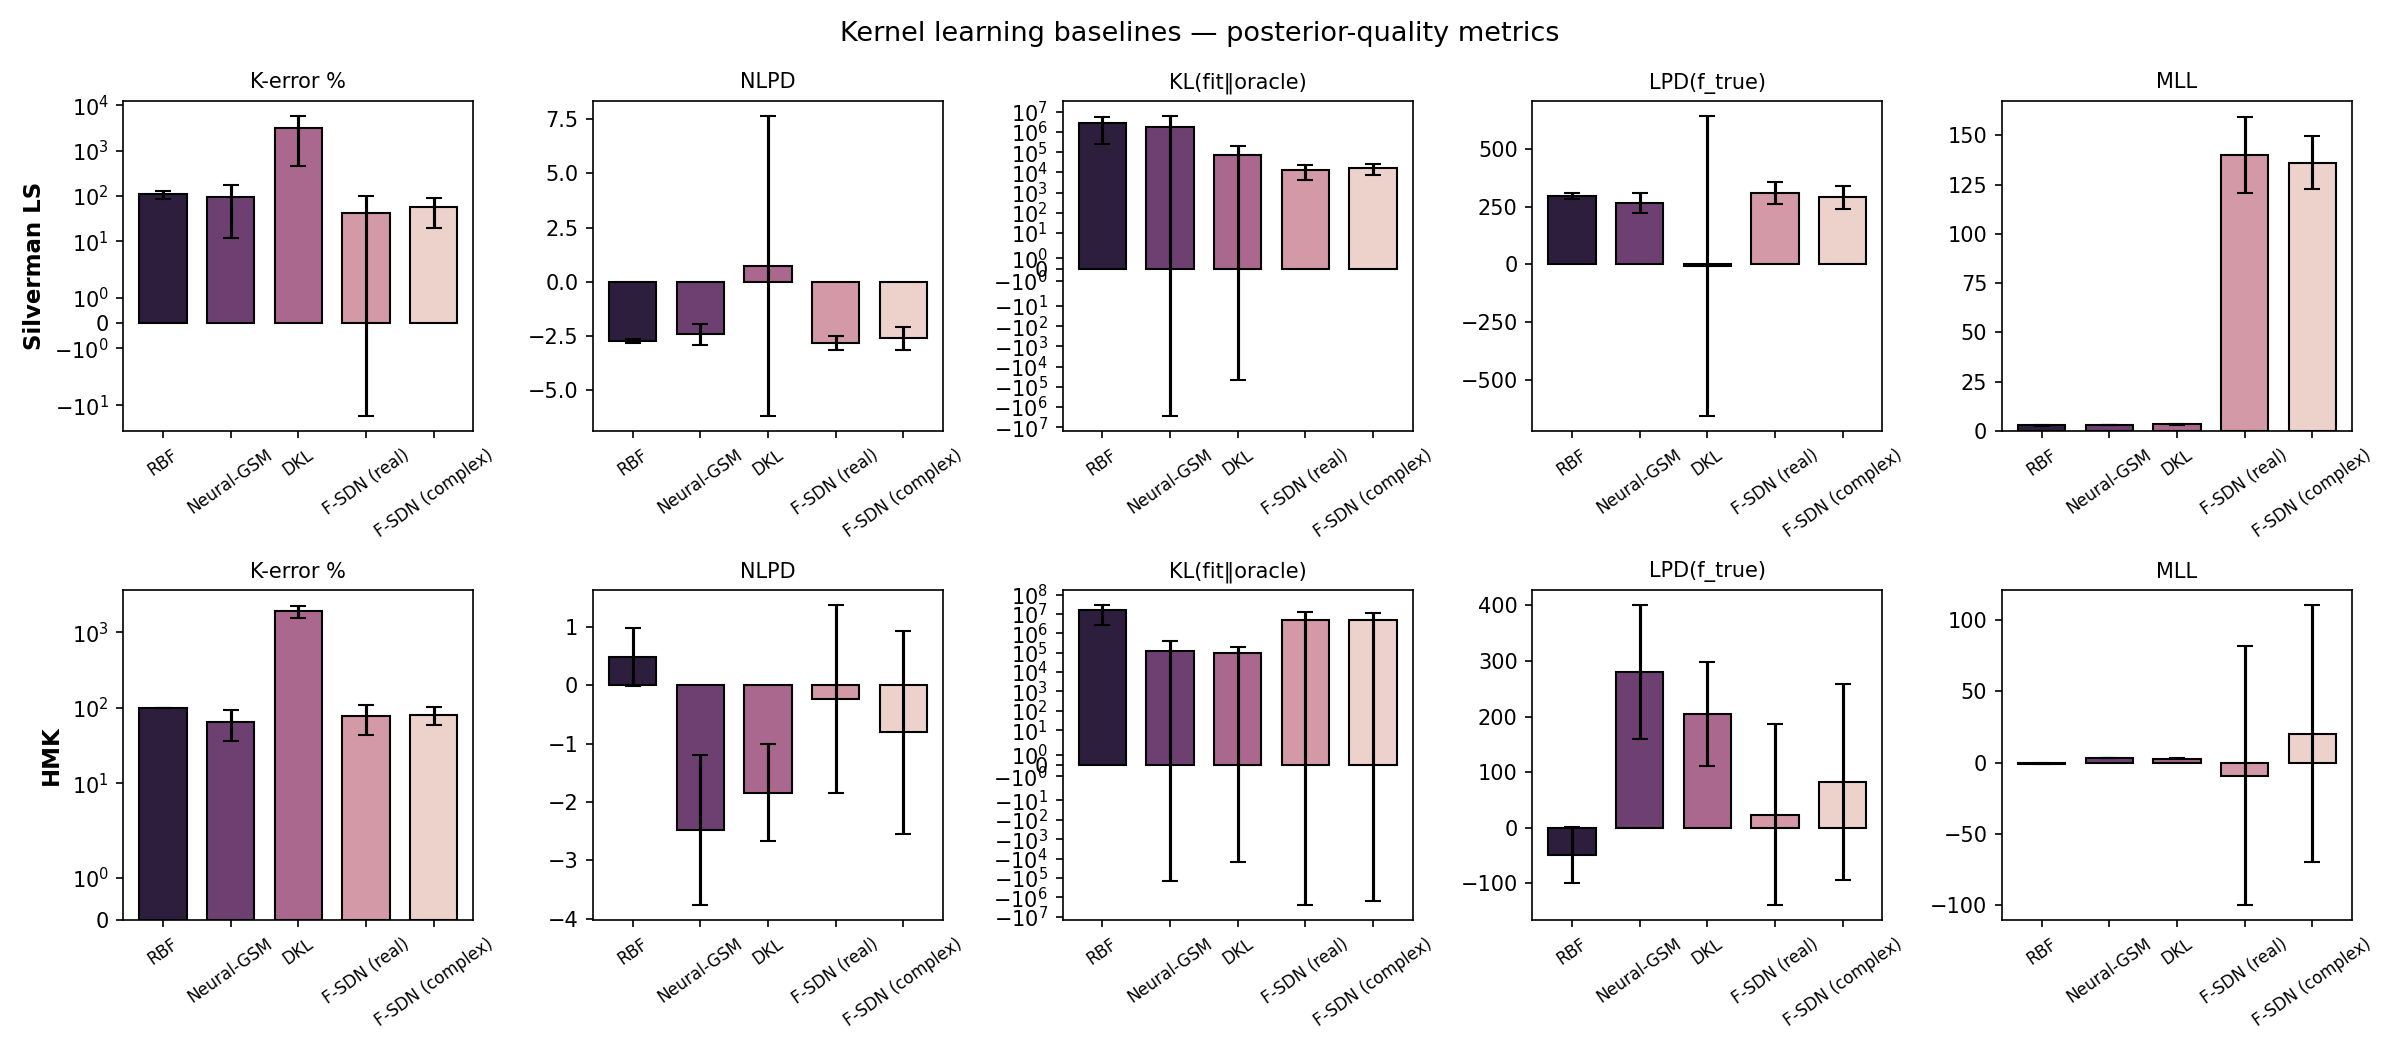
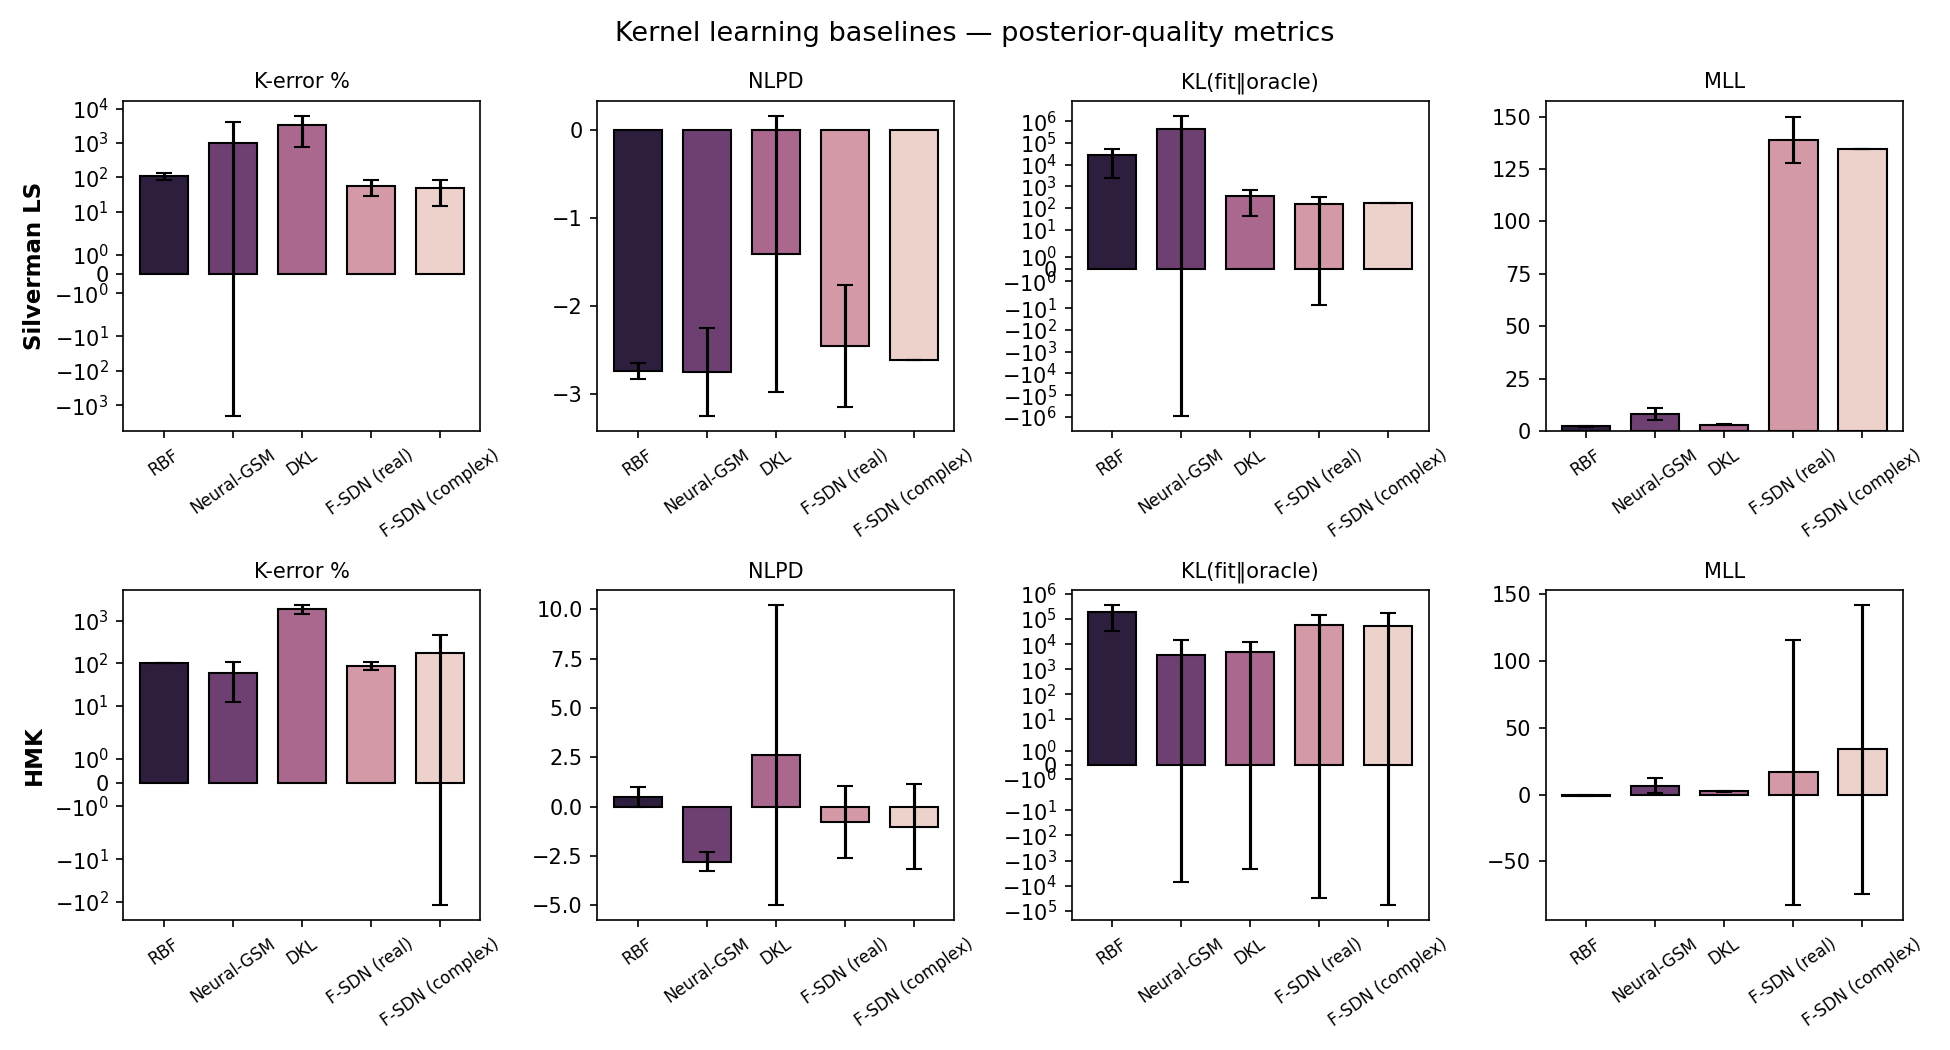
chore(experiments): refresh metrics artefacts after oracle_posterior fix
KL values drop 1-3 orders of magnitude across all methods now that the
oracle and fitted posteriors are both reported with observation noise.
F-SDN (complex) Silverman success rate dropped to 1/5 — Cholesky
failures on the predictive distribution path, not the fit.

diff --git a/experiments/kernel_learning/results_metrics/tables.md b/experiments/kernel_learning/results_metrics/tables.md
@@ -1,19 +1,19 @@
 ### Silverman LS
 
-| Method | n | K-error % | NLPD | KL(fit‖oracle) | LPD(f_true) | MLL | σ²_noise |
-|---|---|---|---|---|---|---|---|
-| RBF | 5/5 | 107.8 ±23.6 | -2.73 ±0.08 | 2908073.15 ±2645656.71 | 295.9 ±13.9 | 2.9 ±0.2 | 1.91e-04 ±6e-05 |
-| Neural-GSM | 5/5 | 95.0 ±83.4 | -2.43 ±0.48 | 1717038.53 ±4518182.41 | 266.8 ±41.8 | 3.0 ±0.2 | 1.65e-04 ±4e-05 |
-| DKL | 5/5 | 3138.0 ±2669.4 | 0.73 ±6.92 | 76139.82 ±123062.35 | -6.6 ±649.9 | 3.4 ±0.2 | 1.09e-04 ±9e-06 |
-| F-SDN (real) | 3/5 | 41.7 ±59.0 | -2.81 ±0.32 | 13929.64 ±9498.54 | 309.7 ±46.5 | 140.1 ±19.3 | 1.63e-04 ±1e-04 |
-| F-SDN (complex) | 4/5 | 55.6 ±36.4 | -2.60 ±0.53 | 17248.18 ±9822.74 | 290.7 ±48.7 | 136.2 ±13.5 | 1.82e-04 ±8e-05 |
+| Method | n | K-error % | NLPD | KL(fit‖oracle) | MLL | σ²_noise |
+|---|---|---|---|---|---|---|
+| RBF | 5/5 | 107.8 ±23.6 | -2.74 ±0.09 | 28968.36 ±26446.24 | 2.1 ±0.2 | 1.91e-04 ±6e-05 |
+| Neural-GSM | 4/5 | 1006.1 ±3051.5 | -2.75 ±0.50 | 419775.56 ±1333563.33 | 7.9 ±2.9 | 1.59e-04 ±3e-05 |
+| DKL | 5/5 | 3432.5 ±2676.7 | -1.41 ±1.57 | 346.87 ±302.79 | 3.0 ±0.2 | 1.11e-04 ±7e-06 |
+| F-SDN (real) | 4/5 | 57.0 ±27.4 | -2.46 ±0.69 | 155.55 ±162.64 | 139.0 ±10.9 | 1.73e-04 ±8e-05 |
+| F-SDN (complex) | 1/5 | 48.7 ±33.8 | -2.61 | 174.65 | 134.3 | 1.85e-04 |
 
 ### HMK
 
-| Method | n | K-error % | NLPD | KL(fit‖oracle) | LPD(f_true) | MLL | σ²_noise |
-|---|---|---|---|---|---|---|---|
-| RBF | 5/5 | 100.0 ±0.0 | 0.49 ±0.50 | 15743894.65 ±13052178.62 | -48.6 ±50.0 | -0.7 ±0.5 | 3.18e-01 ±3e-01 |
-| Neural-GSM | 5/5 | 64.1 ±27.9 | -2.48 ±1.29 | 126782.15 ±272616.36 | 280.3 ±120.2 | 3.0 ±0.1 | 1.55e-04 ±3e-05 |
-| DKL | 5/5 | 1883.0 ±361.1 | -1.84 ±0.83 | 94124.46 ±109563.76 | 204.5 ±92.7 | 2.8 ±0.4 | 2.50e-04 ±1e-04 |
-| F-SDN (real) | 4/5 | 76.9 ±33.0 | -0.23 ±1.61 | 4964940.83 ±7426183.63 | 23.8 ±162.4 | -9.2 ±90.7 | 9.63e-02 ±1e-01 |
-| F-SDN (complex) | 5/5 | 80.8 ±22.0 | -0.81 ±1.74 | 4650291.03 ±6270178.01 | 82.3 ±176.1 | 20.3 ±90.3 | 8.29e-02 ±1e-01 |
+| Method | n | K-error % | NLPD | KL(fit‖oracle) | MLL | σ²_noise |
+|---|---|---|---|---|---|---|
+| RBF | 5/5 | 100.0 ±0.0 | 0.49 ±0.50 | 197191.63 ±163850.17 | -0.7 ±0.5 | 3.18e-01 ±3e-01 |
+| Neural-GSM | 4/5 | 60.5 ±48.0 | -2.78 ±0.46 | 3610.47 ±10674.64 | 6.9 ±5.8 | 1.84e-04 ±6e-05 |
+| DKL | 5/5 | 1932.2 ±458.7 | 2.63 ±7.60 | 4777.92 ±6897.83 | 2.5 ±0.3 | 1.88e-04 ±6e-05 |
+| F-SDN (real) | 5/5 | 87.4 ±18.1 | -0.77 ±1.84 | 57266.02 ±87212.91 | 16.7 ±99.2 | 7.32e-02 ±1e-01 |
+| F-SDN (complex) | 4/5 | 179.3 ±298.4 | -1.00 ±2.16 | 54023.12 ±112666.69 | 34.0 ±108.1 | 8.39e-02 ±2e-01 |
